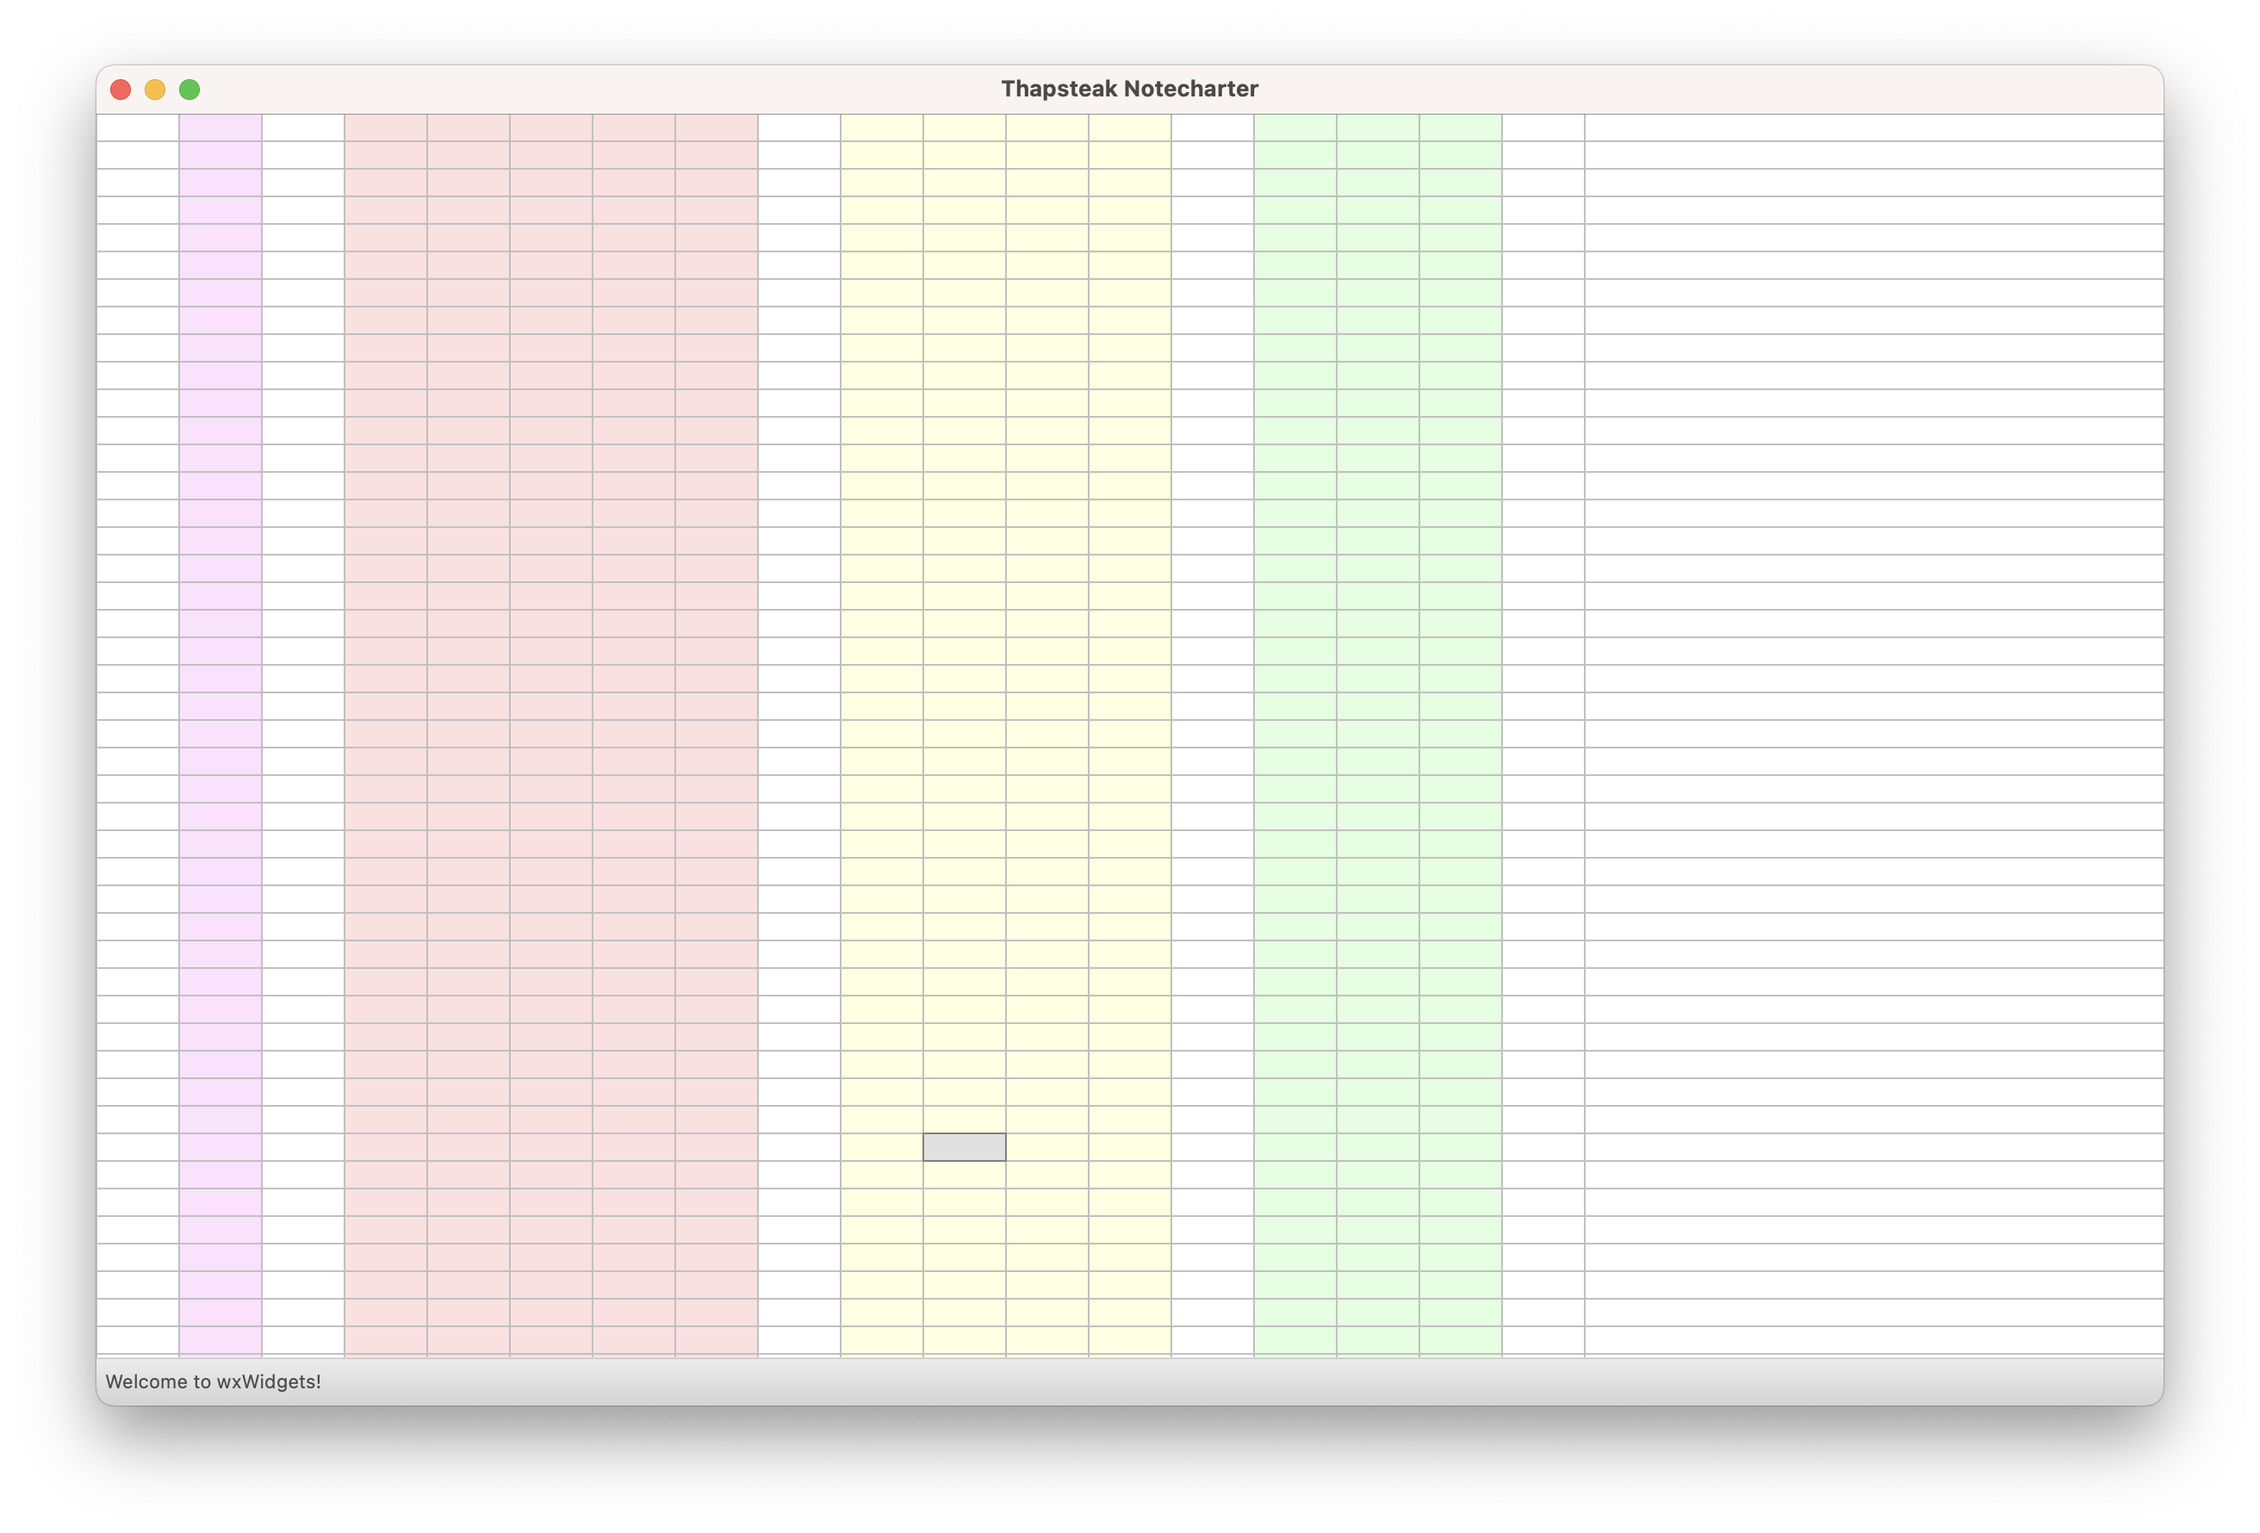
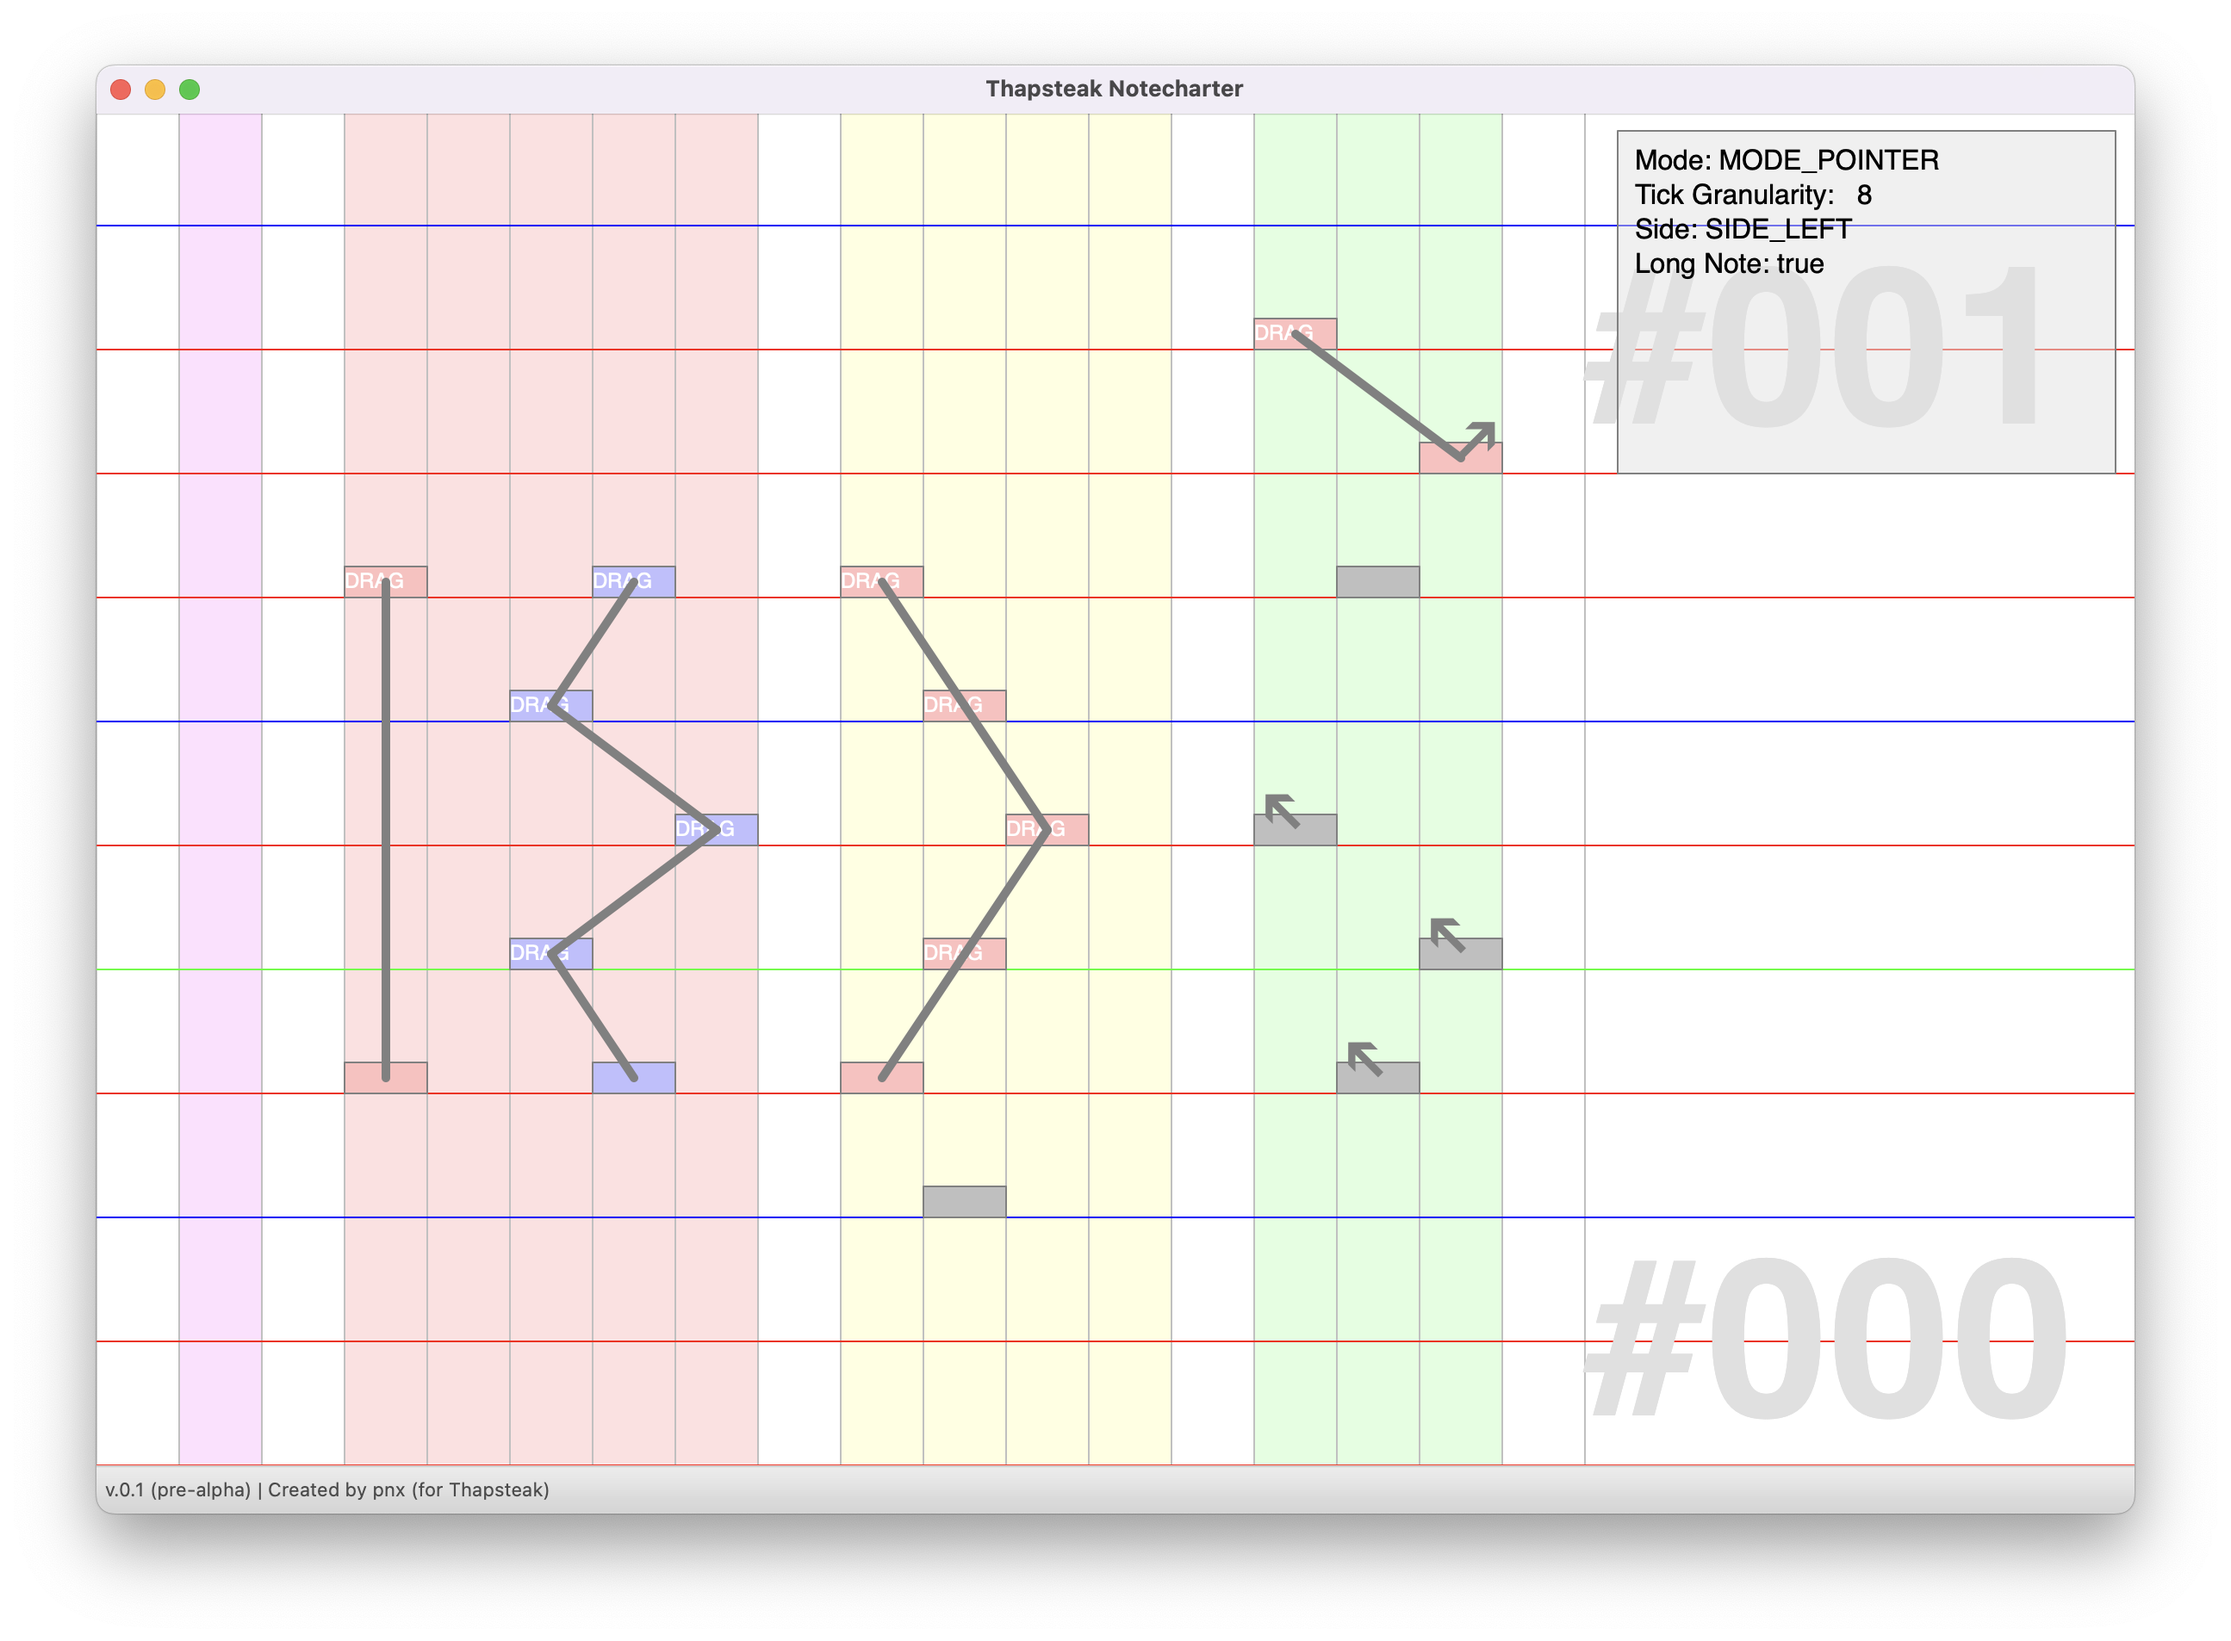
visualized LN

Changed region(s): [[0.0309, 0.0309, 0.9575, 0.927], [0.9266, 0.7107, 0.9575, 0.7416]]

diff --git a/src/canvas.cpp b/src/canvas.cpp
@@ -44,8 +44,6 @@ void Canvas::keyDown(wxKeyEvent &event) {
     wxChar uc = event.GetUnicodeKey();
 
     if (uc != WXK_NONE) {
-        printf("%c\n", uc);
-
         switch (uc) {
             // Change mode
             case 'Q': {
@@ -161,7 +159,12 @@ void Canvas::keyDown(wxKeyEvent &event) {
         case WXK_BACK:
         case WXK_DELETE: {
             for (int note_id : this->highlighted_notes) {
-                this->chart->note_index[note_id]->is_deleted = true;
+                this->chart->notes.erase(
+                    std::remove_if(this->chart->notes.begin(), this->chart->notes.end(),
+                                   [note_id](const std::shared_ptr<Note> &n) {
+                                       return note_id == n->id;
+                                   }),
+                    this->chart->notes.end());
             }
             break;
         }
@@ -212,7 +215,10 @@ void Canvas::mouseDown(wxMouseEvent &event) {
                 (absolute_ticks / cell_range_in_ticks) * cell_range_in_ticks;
             Note new_note = Note(absolute_ticks_with_granularity,
                                  (Lane)current_mouse_column, DIR_NONE,
-                                 this->current_side, this->is_long_note);
+                                 this->current_side, false);
+
+            new_note.is_longnote =
+                (this->current_side != SIDE_NONE) && this->is_long_note;
 
             if ((Lane)current_mouse_column == LANE_BPM) {
                 wxString prompt = wxGetTextFromUser("BPM", "", "");
@@ -421,13 +427,10 @@ void Canvas::update_frame(wxDC &dc, double delta_time) {
     for (int idx = 0; idx < this->chart->notes.size(); idx++) {
         std::shared_ptr<Note> note(this->chart->notes[idx]);
 
-        if (note->is_deleted) {
-            continue;
-        }
-
         int y_position =
             height - ((note->tick - current_tick + (6)) * ROW_SIZE);
-        if (y_position >= 0 && y_position < height) {
+
+        if (y_position + ((ROW_SIZE * 6) + 1) >= 0 && y_position < height) {
             // The bottom line is (current_tick)
             int x_position = note->lane * COL_SIZE;
 
@@ -457,14 +460,6 @@ void Canvas::update_frame(wxDC &dc, double delta_time) {
                 dc.SetBrush(wxColor(128, 192, 128));
             }
 
-            // Draw LN line
-            if (note->is_longnote) {
-                // Find the previous connector (note with the same side)
-                for (std::shared_ptr<Note> note : this->chart->notes) {
-                    
-                }
-            }
-
             dc.SetPen(wxPen(wxColor(128, 128, 128), 1));
             dc.DrawRectangle(x_position, y_position, COL_SIZE + 1,
                              (ROW_SIZE * 6) + 1);
@@ -481,12 +476,62 @@ void Canvas::update_frame(wxDC &dc, double delta_time) {
                         wxFont{12, wxFONTFAMILY_SWISS, wxNORMAL, wxNORMAL});
                     dc.SetTextForeground(wxColor(255, 255, 255));
                     dc.DrawText(wxT("DRAG"), x_position, y_position + 3);
+
+                    // Draw LN line
+                    // Find the previous connector (note with the same side)
+                    for (int j = idx - 1; j >= 0; j--) {
+                        std::shared_ptr<Note> prev(this->chart->notes[j]);
+
+                        if (prev->side == note->side &&
+                            this->chart->is_same_lane_group(prev, note)) {
+                            int prev_y_position =
+                                height -
+                                ((prev->tick - current_tick + (6)) * ROW_SIZE);
+                            int prev_x_position = prev->lane * COL_SIZE;
+
+                            dc.SetPen(wxPen(wxColor(128, 128, 128), 5));
+                            dc.DrawLine(
+                                x_position + ((COL_SIZE + 1) / 2),
+                                y_position + (((ROW_SIZE * 6) + 1) / 2),
+                                prev_x_position + ((COL_SIZE + 1) / 2),
+                                prev_y_position + (((ROW_SIZE * 6) + 1) / 2));
+
+                            break;
+                        }
+                    }
+                }
+
+                if (note->side != SIDE_NONE) {
+                    // Check whether the next connector is out-of-screen
+                    for (int j = idx + 1; j < this->chart->notes.size(); j++) {
+                        std::shared_ptr<Note> next(this->chart->notes[j]);
+
+                        if (next->is_longnote && next->side == note->side) {
+                            int next_y_position =
+                                height -
+                                ((next->tick - current_tick + (6)) * ROW_SIZE);
+
+                            if (next_y_position < 0) {
+                                int next_x_position = next->lane * COL_SIZE;
+
+                                dc.SetPen(wxPen(wxColor(128, 128, 128), 5));
+                                dc.DrawLine(
+                                    x_position + ((COL_SIZE + 1) / 2),
+                                    y_position + (((ROW_SIZE * 6) + 1) / 2),
+                                    next_x_position + ((COL_SIZE + 1) / 2),
+                                    next_y_position +
+                                        (((ROW_SIZE * 6) + 1) / 2));
+                            }
+
+                            break;
+                        }
+                    }
                 }
 
                 if (note->direction != DIR_NONE) {
                     dc.SetFont(
                         wxFont{32, wxFONTFAMILY_SWISS, wxNORMAL, wxNORMAL});
-                    dc.SetTextForeground(wxColor(255, 255, 255));
+                    dc.SetTextForeground(wxColor(128, 128, 128));
 
                     switch (note->direction) {
                         case DIR_LEFT: {

diff --git a/src/notechart.cpp b/src/notechart.cpp
@@ -16,14 +16,24 @@ void Notechart::update() { this->updated = false; }
 
 void Notechart::modify() { this->updated = true; }
 
-void Notechart::add_note(Note note) {
-    // Remove -1 notes
-    this->notes.erase(std::remove_if(this->notes.begin(), this->notes.end(),
-                                     [note](const std::shared_ptr<Note> &n) {
-                                         return n->is_deleted;
-                                     }),
-                      this->notes.end());
+bool Notechart::is_same_lane_group(std::shared_ptr<Note> a,
+                                   std::shared_ptr<Note> b) {
+    if (a->lane >= 3 && a->lane <= 7) {
+        return b->lane >= 3 && b->lane <= 7;
+    }
 
+    else if (a->lane >= 9 && a->lane <= 12) {
+        return b->lane >= 9 && b->lane <= 12;
+    }
+
+    else if (a->lane >= 14 && a->lane <= 16) {
+        return b->lane >= 14 && b->lane <= 16;
+    }
+
+    return false;
+}
+
+void Notechart::add_note(Note note) {
     // Deduplicate
     if (std::find_if(this->notes.begin(), this->notes.end(),
                      [note](const std::shared_ptr<Note> &n) {

diff --git a/include/notechart.hpp b/include/notechart.hpp
@@ -1,6 +1,6 @@
+#include <string>
 #include <unordered_map>
 #include <vector>
-#include <string>
 
 enum Direction {
     DIR_NONE = -1,
@@ -11,7 +11,8 @@ enum Direction {
     DIR_LEFT = 180
 };
 enum Side { SIDE_NONE, SIDE_LEFT, SIDE_RIGHT };
-const std::vector<std::string> side_text{ "SIDE_NONE", "SIDE_LEFT", "SIDE_RIGHT" };
+const std::vector<std::string> side_text{"SIDE_NONE", "SIDE_LEFT",
+                                         "SIDE_RIGHT"};
 
 enum Lane {
     LANE_BPM = 1,
@@ -39,8 +40,6 @@ class Note {
     bool is_longnote{false};
     float value;
 
-    bool is_deleted{false};
-
     Note(long _tick, Lane _lane, Direction _direction, Side _side,
          bool _is_longnote);
 };
@@ -54,6 +53,8 @@ class Notechart {
 
     std::vector<std::shared_ptr<Note>> notes;
     std::unordered_map<int, std::shared_ptr<Note>> note_index;
+
+    bool is_same_lane_group(std::shared_ptr<Note> a, std::shared_ptr<Note> b);
 
    private:
     int current_sequence{0};

diff --git a/src/App.cpp b/src/App.cpp
@@ -8,8 +8,6 @@
 #include "../include/app.hpp"
 
 /**
- * TODO: Visualize flicks
- * TODO: Visualize long notes
  * TODO: Command stacks (for undo-ing)
  * TODO: Import/Export charts
  * TODO: Auto-play with spacebar

diff --git a/README.md b/README.md
@@ -3,6 +3,10 @@
 ## Screenshot
 <img src="/img/Screenshot.png" />
 
+## Requirements
+- `fmt`
+- `nlohmann-json`
+
 ## Executing the program
 ```
 mkdir build
